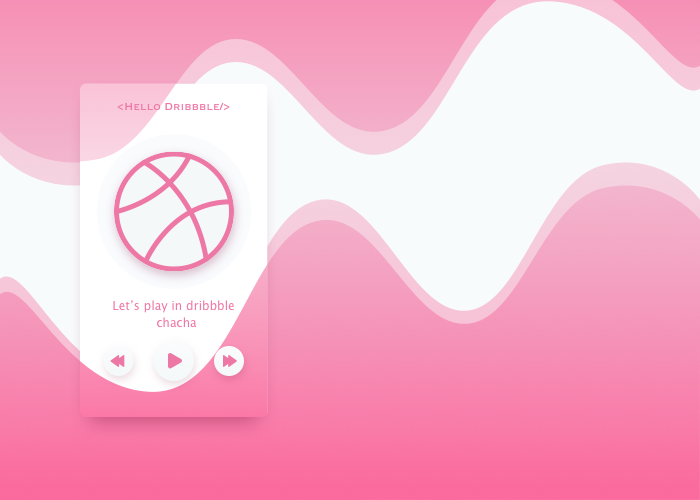
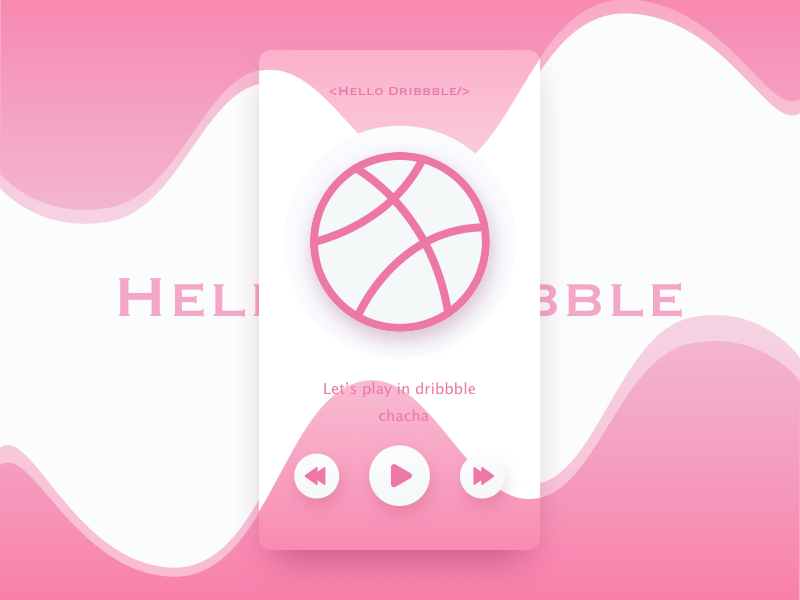
添加界面设计

diff --git a/README.md b/README.md
@@ -13,3 +13,6 @@
 
 ## 😄 Page4
 ![Dribbble Page 4](http://7xqacx.com1.z0.glb.clouddn.com/Page4.png)
+
+## 😄 Page5
+![Dribbble Page 5](http://7xqacx.com1.z0.glb.clouddn.com/Page5.png)
